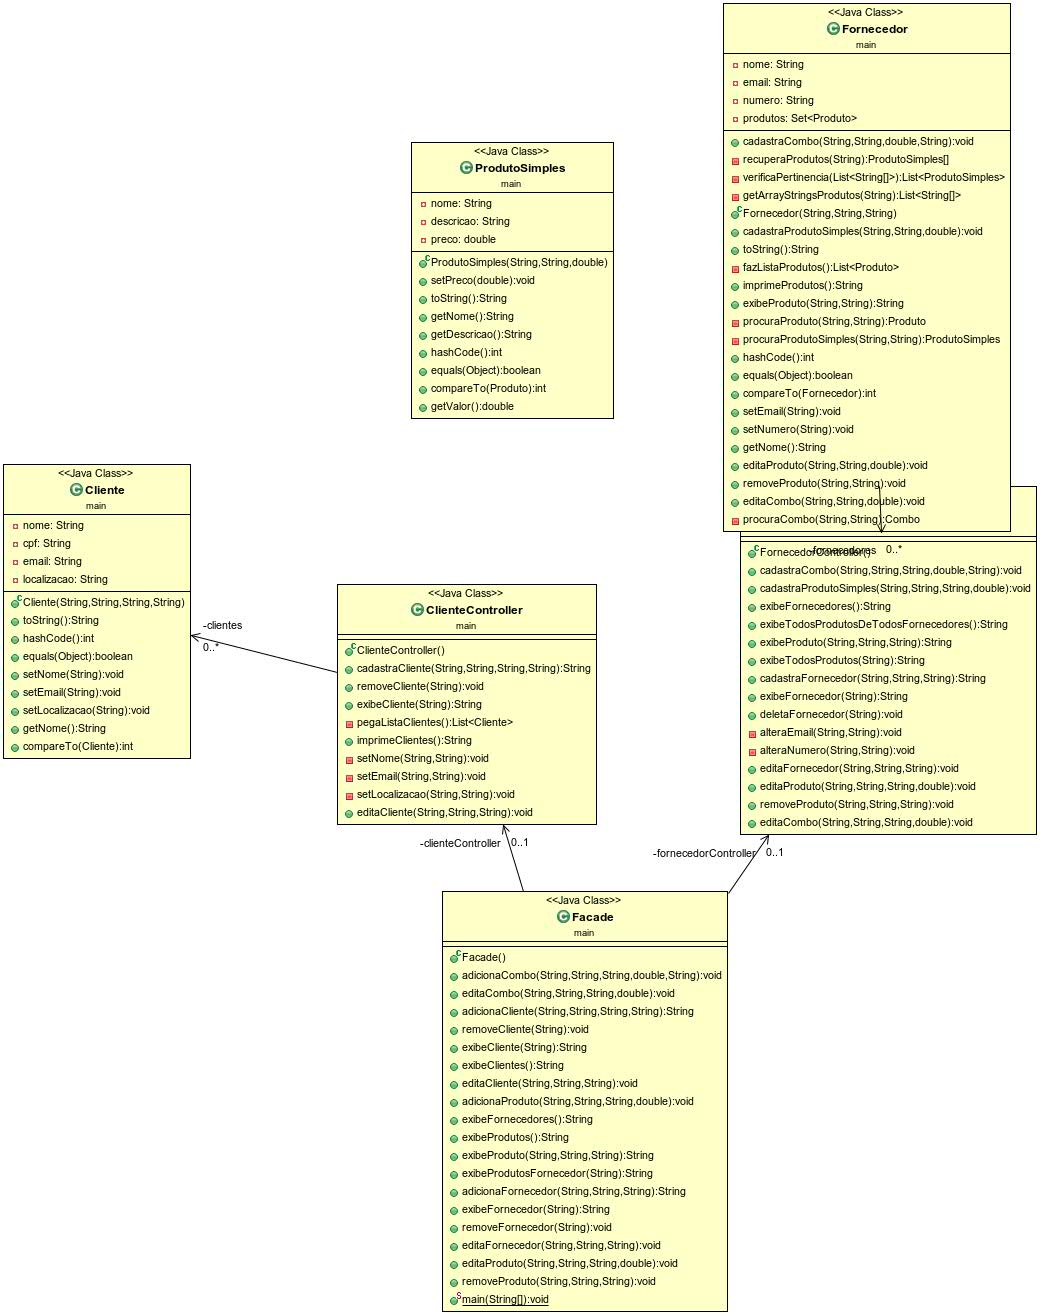
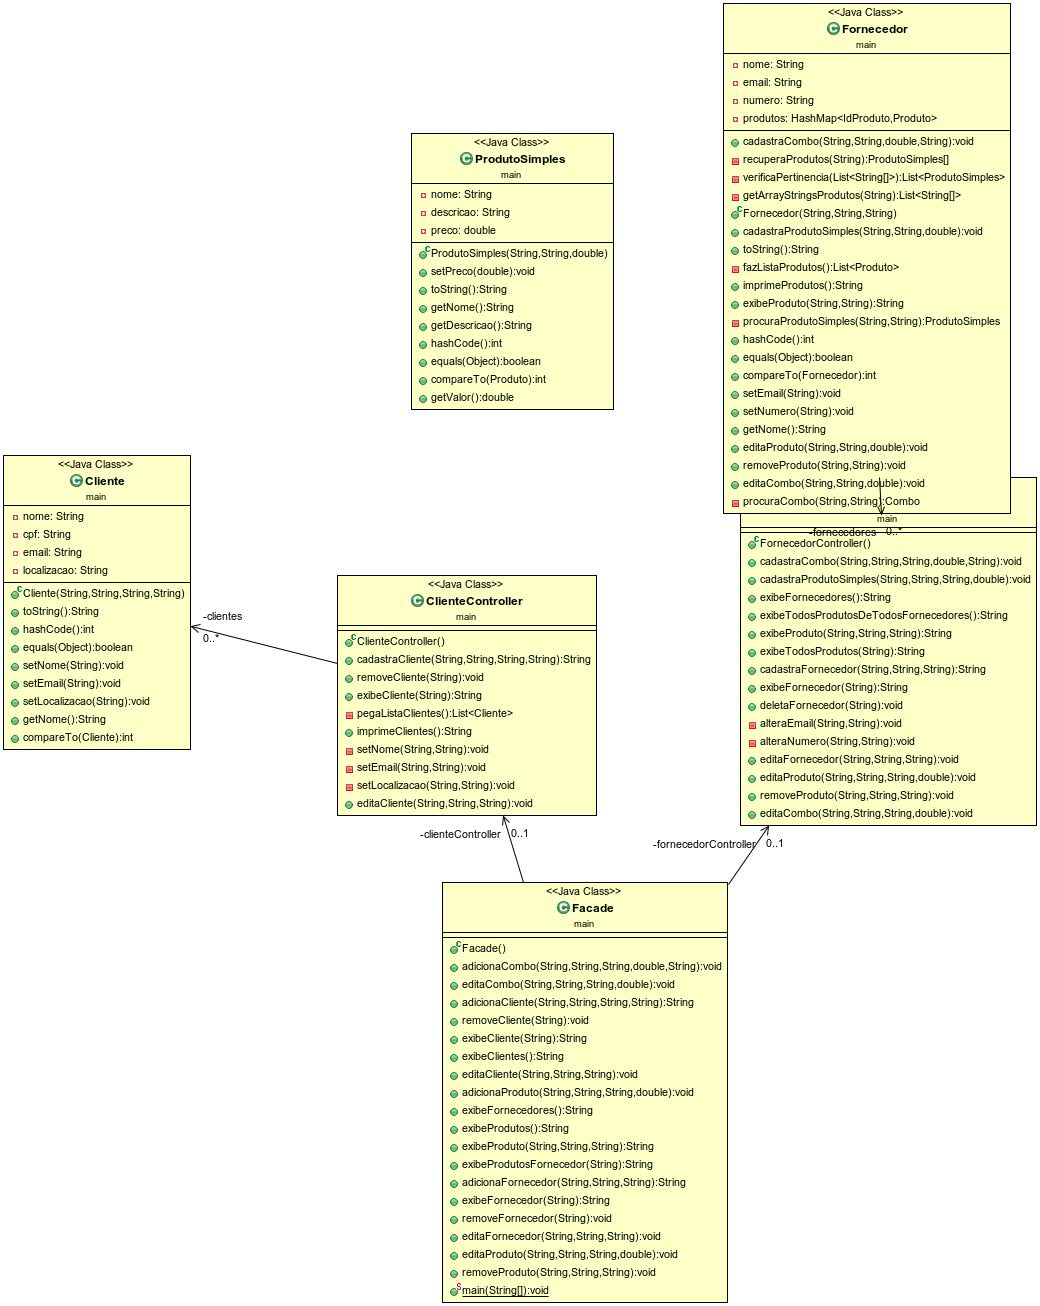
subindo  versao esquisita

diff --git a/src/main/Fornecedor.java b/src/main/Fornecedor.java
@@ -1,11 +1,10 @@
 package main;
 
-import java.sql.Array;
 import java.util.ArrayList;
 import java.util.Collections;
+import java.util.HashMap;
 import java.util.HashSet;
 import java.util.List;
-import java.util.Set;
 
 /**
  * classe que representa a entidade Fornecedor!
@@ -18,7 +17,7 @@ public class Fornecedor implements Comparable<Fornecedor> {
 	private String nome;
 	private String email;
 	private String numero;
-	private Set<Produto> produtos;
+	private HashMap<IdProduto, Produto> produtos;
 
 	public void cadastraCombo(String nome, String descricao, double fator, String produtos)
 			throws ProdutoNaoCadastradoException, ProdutoJaCadastradoException {
@@ -33,11 +32,11 @@ public class Fornecedor implements Comparable<Fornecedor> {
 			throw new IllegalArgumentException("Erro no cadastro de combo: combo deve ter produtos.");
 		}
 		ProdutoSimples[] temp = this.recuperaProdutos(produtos);
-		Combo aSerAdcionado = new Combo(nome, descricao, fator, temp);
-		if (this.produtos.contains(aSerAdcionado)) {
+		IdProduto id = new IdProduto(nome, descricao);
+		if (this.produtos.containsKey(id)) {
 			throw new ProdutoJaCadastradoException("Erro no cadastro de combo: combo ja existe.");
 		} else {
-			this.produtos.add(new Combo(nome, descricao, fator, temp));
+			this.produtos.put(id, new Combo(nome, descricao, fator, temp));
 		}
 	}
 
@@ -102,7 +101,7 @@ public class Fornecedor implements Comparable<Fornecedor> {
 		this.nome = nome;
 		this.email = email;
 		this.numero = numero;
-		this.produtos = new HashSet<>();
+		this.produtos = new HashMap<>();
 	}
 
 	/**
@@ -115,11 +114,12 @@ public class Fornecedor implements Comparable<Fornecedor> {
 	 */
 	public void cadastraProdutoSimples(String nome, String descricao, double valor)
 			throws ProdutoJaCadastradoException {
+		IdProduto id = new IdProduto(nome, descricao);
 		Produto produtoASerAdcionado = new ProdutoSimples(nome, descricao, valor);
-		if (this.produtos.contains(produtoASerAdcionado)) {
+		if (this.produtos.containsKey(id)) {
 			throw new ProdutoJaCadastradoException("Erro no cadastro de produto: produto ja existe.");
 		} else {
-			this.produtos.add(produtoASerAdcionado);
+			this.produtos.put(id, produtoASerAdcionado);
 		}
 	}
 
@@ -138,8 +138,8 @@ public class Fornecedor implements Comparable<Fornecedor> {
 	private List<Produto> fazListaProdutos() {
 
 		List<Produto> saida = new ArrayList<>();
-		for (Produto p : this.produtos) {
-			saida.add(p);
+		for (IdProduto id : this.produtos.keySet()) {
+			saida.add(this.produtos.get(id));
 		}
 		return saida;
 	}
@@ -175,13 +175,14 @@ public class Fornecedor implements Comparable<Fornecedor> {
 		if (descricao.equals("") || descricao == null) {
 			throw new IllegalArgumentException("Erro na exibicao de produto: descricao nao pode ser vazia ou nula.");
 		}
-
-		Produto produtoProcurado = this.procuraProduto(nome, descricao);
-		if (produtoProcurado == null) {
-			throw new ProdutoNaoCadastradoException("Erro na exibicao de produto: produto nao existe.");
+		Produto produtoProcurado;
+		if (this.produtos.containsKey(new IdProduto(nome, descricao))) {
+			produtoProcurado = this.produtos.get(new IdProduto(nome, descricao));
 		} else {
-			return produtoProcurado.toString();
+			throw new ProdutoNaoCadastradoException("Erro na exibicao de produto: produto nao existe.");
 		}
+		return produtoProcurado.toString();
+
 	}
 
 	/**
@@ -191,21 +192,23 @@ public class Fornecedor implements Comparable<Fornecedor> {
 	 * @return o produto que tem o nome e a descricao passada como parametro, null
 	 *         caso nao exista
 	 */
-	private Produto procuraProduto(String nome, String descricao) {
-		for (Produto p : this.produtos) {
-			if (p.getDescricao().equals(descricao) && p.getNome().equals(nome)) {
-				return p;
-			}
-		}
-		return null;
-	}
+//	private Produto procuraProduto(String nome, String descricao) {
+//		for (Produto p : this.produtos) {
+//			if (this.produtos.get(id).getDescricao().equals(descricao) && this.produtos.get(id).getNome().equals(nome)) {
+//				return p;
+//			}
+//		}
+//		return null;
+//	}
 
 	private ProdutoSimples procuraProdutoSimples(String nome, String descricao) throws ProdutoNaoCadastradoException {
 		boolean achouCombo = false;
-		for (Produto p : this.produtos) {
-			if (p.getDescricao().equals(descricao) && p.getNome().equals(nome) && p instanceof ProdutoSimples) {
-				return (ProdutoSimples) p;
-			} else if (p.getDescricao().equals(descricao) && p.getNome().equals(nome)) {
+		for (IdProduto id : this.produtos.keySet()) {
+			if (this.produtos.get(id).getDescricao().equals(descricao) && this.produtos.get(id).getNome().equals(nome)
+					&& this.produtos.get(id) instanceof ProdutoSimples) {
+				return (ProdutoSimples) this.produtos.get(id);
+			} else if (this.produtos.get(id).getDescricao().equals(descricao)
+					&& this.produtos.get(id).getNome().equals(nome)) {
 				achouCombo = true;
 			}
 		}
@@ -280,11 +283,11 @@ public class Fornecedor implements Comparable<Fornecedor> {
 		if (descricao.equals("") || descricao == null) {
 			throw new IllegalArgumentException("Erro na edicao de produto: descricao nao pode ser vazia ou nula.");
 		}
-		Produto procurado = this.procuraProduto(nome2, descricao);
-		if (procurado == null) {
-			throw new ProdutoNaoCadastradoException("Erro na edicao de produto: produto nao existe.");
+		IdProduto id = new IdProduto(nome2, descricao);
+		if (this.produtos.containsKey(id)) {
+			this.produtos.get(id).setPreco(novoPreco);
 		} else {
-			procurado.setPreco(novoPreco);
+			throw new ProdutoNaoCadastradoException("Erro na edicao de produto: produto nao existe.");
 		}
 	}
 
@@ -300,39 +303,42 @@ public class Fornecedor implements Comparable<Fornecedor> {
 		} else if (descricao.equals("") || descricao == null) {
 			throw new IllegalArgumentException("Erro na remocao de produto: descricao nao pode ser vazia ou nula.");
 		}
-		Produto procurado = this.procuraProduto(nome2, descricao);
-		if (procurado == null) {
-			throw new ProdutoNaoCadastradoException("Erro na remocao de produto: produto nao existe.");
-		} else {
-			this.produtos.remove(procurado);
+		IdProduto id = new IdProduto(nome2, descricao);
+		if(this.produtos.containsKey(id)) {
+			this.produtos.remove(id);
 		}
+		else {
+			throw new ProdutoNaoCadastradoException("Erro na remocao de produto: produto nao existe.");
+
+		}
+
 	}
 
 	public void editaCombo(String nome2, String descricao, double novoFator) throws ProdutoNaoCadastradoException {
-			if (novoFator <= 0 || novoFator >= 1) {
-				throw new IllegalArgumentException("Erro na edicao de combo: fator invalido.");
-			}
-			if (nome2.equals("") || nome2 == null) {
-				throw new IllegalArgumentException("Erro na edicao de combo: nome nao pode ser vazio ou nulo.");
-			}
-			if (descricao.equals("") || descricao == null) {
-				throw new IllegalArgumentException("Erro na edicao de combo: descricao nao pode ser vazia ou nula.");
-			}
-			Combo procurado = this.procuraCombo(nome2, descricao);
-			if (procurado == null) {
-				throw new ProdutoNaoCadastradoException("Erro na edicao de combo: produto nao existe.");
-			} else {
-				procurado.setPreco(novoFator);
-			}
+		if (novoFator <= 0 || novoFator >= 1) {
+			throw new IllegalArgumentException("Erro na edicao de combo: fator invalido.");
 		}
+		if (nome2.equals("") || nome2 == null) {
+			throw new IllegalArgumentException("Erro na edicao de combo: nome nao pode ser vazio ou nulo.");
+		}
+		if (descricao.equals("") || descricao == null) {
+			throw new IllegalArgumentException("Erro na edicao de combo: descricao nao pode ser vazia ou nula.");
+		}
+		Combo procurado = this.procuraCombo(nome2, descricao);
+		if (procurado == null) {
+			throw new ProdutoNaoCadastradoException("Erro na edicao de combo: produto nao existe.");
+		} else {
+			procurado.setPreco(novoFator);
+		}
+	}
 
 	private Combo procuraCombo(String nome2, String descricao) {
-
-		for(Produto p: this.produtos) {
-			if(p instanceof Combo && p.getNome().equals(nome2) && p.getDescricao().equals(descricao)) {
-				return (Combo) p;
+		IdProduto id = new IdProduto(nome2, descricao);
+		if (this.produtos.containsKey(id)) {
+			if (this.produtos.get(id) instanceof Combo) {
+				return (Combo) this.produtos.get(id);
 			}
-		}	
+		}
 		return null;
 	}
 }

diff --git a/src/main/IdProduto.java b/src/main/IdProduto.java
@@ -1,0 +1,44 @@
+package main;
+
+public class IdProduto {
+	
+	@Override
+	public int hashCode() {
+		final int prime = 31;
+		int result = 1;
+		result = prime * result + ((descricao == null) ? 0 : descricao.hashCode());
+		result = prime * result + ((nome == null) ? 0 : nome.hashCode());
+		return result;
+	}
+
+	@Override
+	public boolean equals(Object obj) {
+		if (this == obj)
+			return true;
+		if (obj == null)
+			return false;
+		if (getClass() != obj.getClass())
+			return false;
+		IdProduto other = (IdProduto) obj;
+		if (descricao == null) {
+			if (other.descricao != null)
+				return false;
+		} else if (!descricao.equals(other.descricao))
+			return false;
+		if (nome == null) {
+			if (other.nome != null)
+				return false;
+		} else if (!nome.equals(other.nome))
+			return false;
+		return true;
+	}
+
+	private String nome;
+	private String descricao;
+
+	public IdProduto(String nome, String descricao) {
+		this.nome = nome;
+		this.descricao = descricao;
+	}
+	
+}

diff --git a/src/main/Compra.java b/src/main/Compra.java
@@ -1,0 +1,18 @@
+package main;
+
+public class Compra {
+	
+	String data;
+	IdProduto id;
+	double valor;
+	
+	public Compra(String data, IdProduto id, double valor) {
+		this.data = data;
+		this.id = id;
+		this.valor = valor;
+	}
+	
+	public double getValor() {
+		return this.valor;
+	}
+}

diff --git a/src/main/FornecedorController.java b/src/main/FornecedorController.java
@@ -265,5 +265,9 @@ public class FornecedorController {
 			throw new FornecedorNaoExistenteException("Erro na edicao de combo: fornecedor nao existe.");
 		}
 	}
+	
+//	public Compra getCompra() {
+//		
+//	}
 
 }
